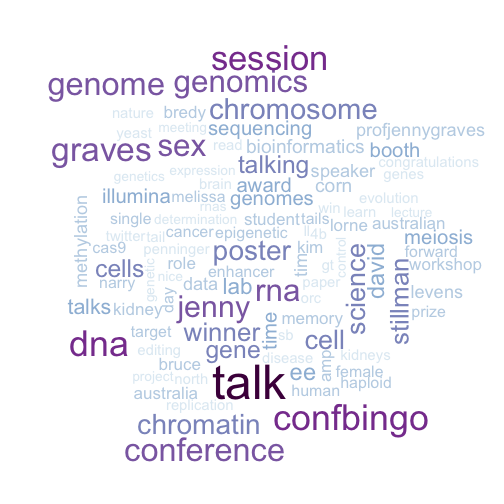
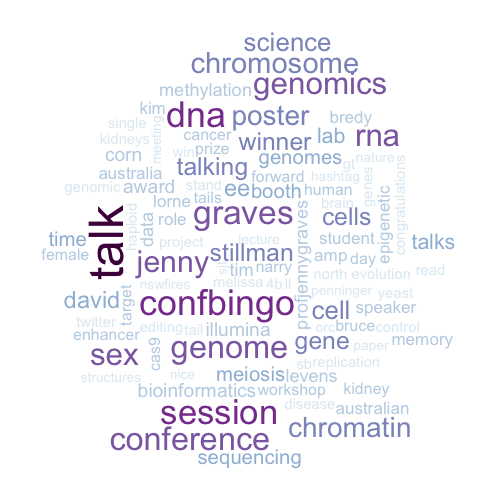
Added comments and regenerated figures

Changed region(s): [[0.0893, 0.0595, 0.9524, 0.9226]]

diff --git a/lornegenome2017/code/R/lornegenome2017.md b/lornegenome2017/code/R/lornegenome2017.md
@@ -1,7 +1,7 @@
 Twitter Coverage of the Lorne Genome Conference 2017
 ========================================================
 author: Neil Saunders
-date: 2017-02-16 20:47:58
+date: 2017-02-16 22:22:40
 autosize: true
 
 <style>
@@ -30,7 +30,7 @@ Timeline
 id: timeline
 
 <div class="footer" style="font-size:60%;">
-1532 tweets were retrieved. The majority of tweets were posted during the conference (February 12-14), with some posted in the week prior to the event.
+1538 tweets were retrieved. The majority of tweets were posted during the conference (February 12-14), with some posted in the week prior to the event.
 Peaks of activity during the morning sessions on February 13-14 may correspond to keynote speakers. It would be interesting to mash up these data with the conference program schedule.
 </div>
 
@@ -138,9 +138,9 @@ id: top-retweets-1
 |screen_name    |text                                                                                                                                                                     | retweet_count|
 |:--------------|:------------------------------------------------------------------------------------------------------------------------------------------------------------------------|-------------:|
 |minouye271     |Fab talk by @natar210 on creating a map of interactions b/n metabolome &amp; immune gene networks in blood! #LorneGenome https://t.co/YiDhrAXEnK https://t.co/V66yimEQkT |            19|
-|sritchie73     |This cockatoo finally managed to steal a caramel slice #LorneGenome https://t.co/rqfStYXnM0                                                                              |            17|
+|sritchie73     |This cockatoo finally managed to steal a caramel slice #LorneGenome https://t.co/rqfStYXnM0                                                                              |            18|
 |AliciaOshlack  |9 Aboriginal elders are authors on the DNA sequencing Nature paper #lorneGenome https://t.co/fTyFtb74rm                                                                  |            17|
-|MerlinCrossley |The polyA tail is not 'just a boring string of As - it can also contain Gs or Us' #lorneGenome https://t.co/SsuoNfCZAS                                                   |            14|
+|MerlinCrossley |The polyA tail is not 'just a boring string of As - it can also contain Gs or Us' #lorneGenome https://t.co/SsuoNfCZAS                                                   |            15|
 |sjturn         |#lorneGenome Advice from bioinformatics workshop, if you plan to do large data expts, get buy in early from bioinformatician so design is 👍                              |            14|
 
 Top 10 most retweeted: 6-10
@@ -177,7 +177,7 @@ id: top-favorites-1
 
 |screen_name   |text                                                                                                     | favorite_count|
 |:-------------|:--------------------------------------------------------------------------------------------------------|--------------:|
-|sritchie73    |This cockatoo finally managed to steal a caramel slice #LorneGenome https://t.co/rqfStYXnM0              |             49|
+|sritchie73    |This cockatoo finally managed to steal a caramel slice #LorneGenome https://t.co/rqfStYXnM0              |             59|
 |AliciaOshlack |9 Aboriginal elders are authors on the DNA sequencing Nature paper #lorneGenome https://t.co/fTyFtb74rm  |             35|
 |AliciaOshlack |Platypus has 10 sex chromosomes! #lorneGenome @ProfJennyGraves                                           |             25|
 |qinqin_huang  |didn't expect it would be so great talking to people I don't know!! #LorneGenome https://t.co/qE2PLvGFN8 |             22|
@@ -220,23 +220,23 @@ id: top-quotes-1
 |screen_name     |text                                                                                                                                | quote_count|
 |:---------------|:-----------------------------------------------------------------------------------------------------------------------------------|-----------:|
 |kathrynpenelope |Ozren Bogdanovic is the winner of this year's Millenium Science Award for young researchers at #lorneGenome https://t.co/5lBdv7D2Jb |           9|
+|laura_boykin    |Hmmmm. Australia has some work to do too. Hello #manusisland  &amp; #nauru #lorneGenome #refugee https://t.co/4SjOQaUZJ1            |           4|
 |lachlancoin     |I think @minouye271 currently winning this with two #lorneGenome  preprints https://t.co/XYU1i6m3Lm                                 |           4|
-|laura_boykin    |Hmmmm. Australia has some work to do too. Hello #manusisland  &amp; #nauru #lorneGenome #refugee https://t.co/4SjOQaUZJ1            |           3|
 |methylnick      |don't forget #biology the #bio in #bioinformatics #lornegenome #iamNOTaBioinformatician https://t.co/dCcu7V9l4o                     |           3|
-|kathrynpenelope |All the Cs by the Sea at #LorneGenome https://t.co/2VAomURTBJ                                                                       |           3|
+|methylnick      |Nice to put name to face. #lornegenome https://t.co/hqBPFCEZbK                                                                      |           3|
 
 Top 10 most quoted: 6-10
 ========================================================
 id: top-quotes-2
 
 
-|screen_name     |text                                                                     | quote_count|
-|:---------------|:------------------------------------------------------------------------|-----------:|
-|kathrynpenelope |All the Cs by the Sea at #LorneGenome https://t.co/2VAomURTBJ            |           3|
-|methylnick      |Nice to put name to face. #lornegenome https://t.co/hqBPFCEZbK           |           3|
-|methylnick      |#lorneGenome next? I miss #lorne #Melbournian https://t.co/yx7yNSE8uB    |           2|
-|GenomeConf      |Bruce Stillman is talking about ORC #lorneGenome https://t.co/H994xVX4HN |           2|
-|GenomeConf      |Bruce Stillman is talking about ORC #lorneGenome https://t.co/H994xVX4HN |           2|
+|screen_name     |text                                                                                                                                 | quote_count|
+|:---------------|:------------------------------------------------------------------------------------------------------------------------------------|-----------:|
+|methylnick      |#lorneGenome next? I miss #lorne #Melbournian https://t.co/yx7yNSE8uB                                                                |           2|
+|AliciaOshlack   |Poster 111 tonight at #lorneGenome! Detecting pathogenic STR expansions with WGS by my PhD student @hdashnow https://t.co/Yi80CiLEH8 |           2|
+|kathrynpenelope |All the Cs by the Sea at #LorneGenome https://t.co/2VAomURTBJ                                                                        |           2|
+|CSHeartResearch |Well presented to an international crowd at #LorneGenome #HCM #ancestry https://t.co/BYdwJ6MzGS                                      |           2|
+|minouye271      |Awesome PhD student @qinqin_huang &amp; her poster at #LorneGenome. Watch out for this one!! https://t.co/jXWjcDmYsX                 |           2|
 
 Media
 ========================================================
@@ -247,7 +247,7 @@ id: media
 ***
 
 <div style="font-size:60%;">
-A sizeable fraction (306 / 1532) of tweets have attached media files.
+A sizeable fraction (309 / 1538) of tweets have attached media files.
 </div>
 
 Most-liked media 1-5
@@ -257,7 +257,7 @@ id: top-media-1
 
 |screen_name    |text                                                                                                                                   | favorite_count|
 |:--------------|:--------------------------------------------------------------------------------------------------------------------------------------|--------------:|
-|sritchie73     |This cockatoo finally managed to steal a caramel slice #LorneGenome https://t.co/rqfStYXnM0                                            |             49|
+|sritchie73     |This cockatoo finally managed to steal a caramel slice #LorneGenome https://t.co/rqfStYXnM0                                            |             59|
 |qinqin_huang   |didn't expect it would be so great talking to people I don't know!! #LorneGenome https://t.co/qE2PLvGFN8                               |             22|
 |minouye271     |What happens when u tell ur PhD student to just order a bunch of stuff @sritchie73 #LorneGenome https://t.co/xY7nvEhfwx                |             21|
 |MerlinCrossley |The polyA tail is not 'just a boring string of As - it can also contain Gs or Us' #lorneGenome https://t.co/SsuoNfCZAS                 |             21|
